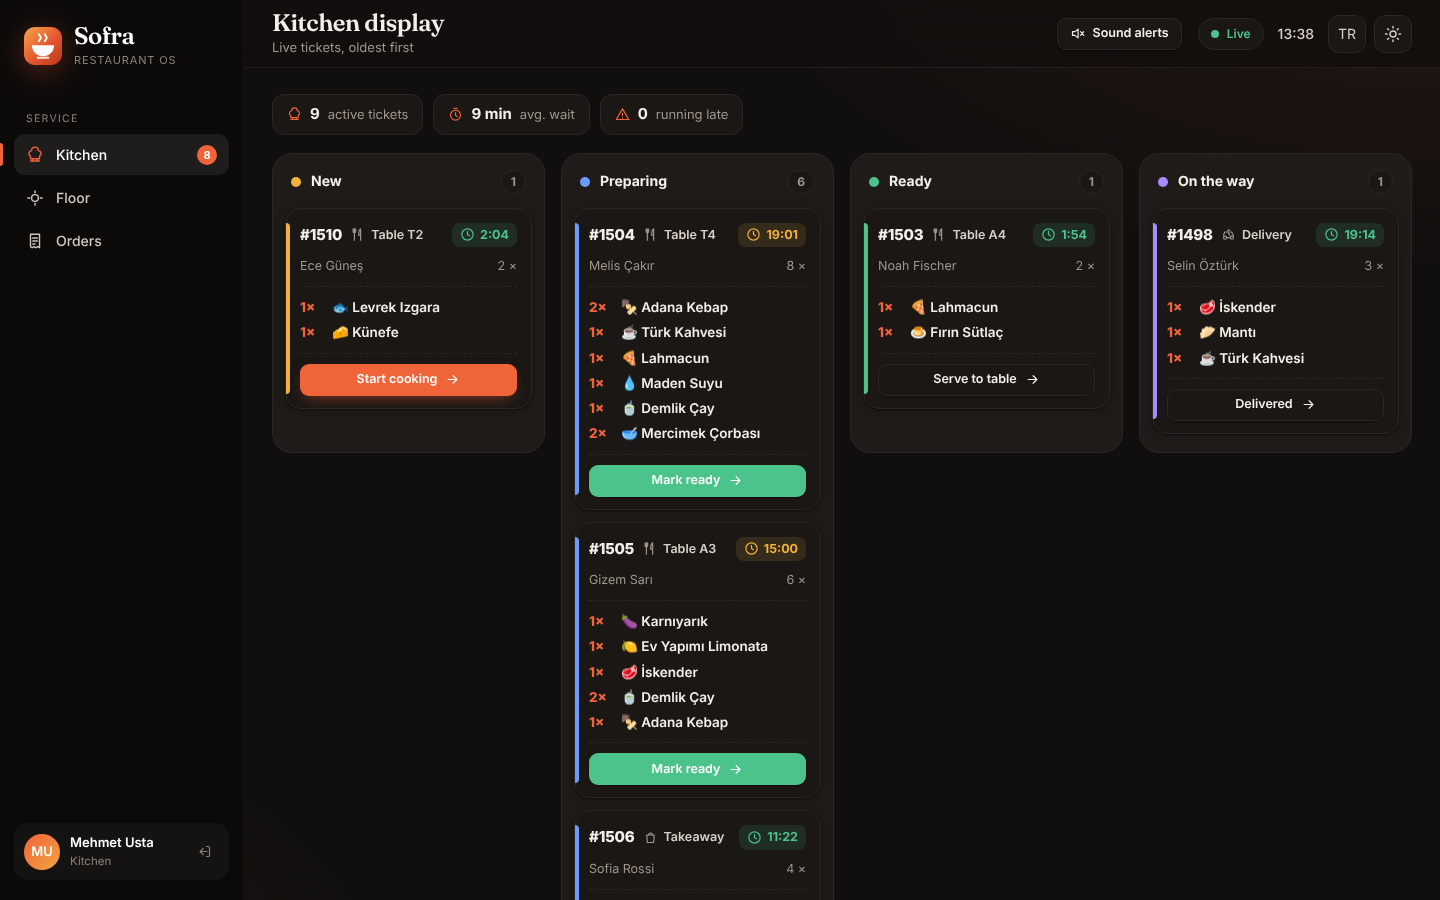
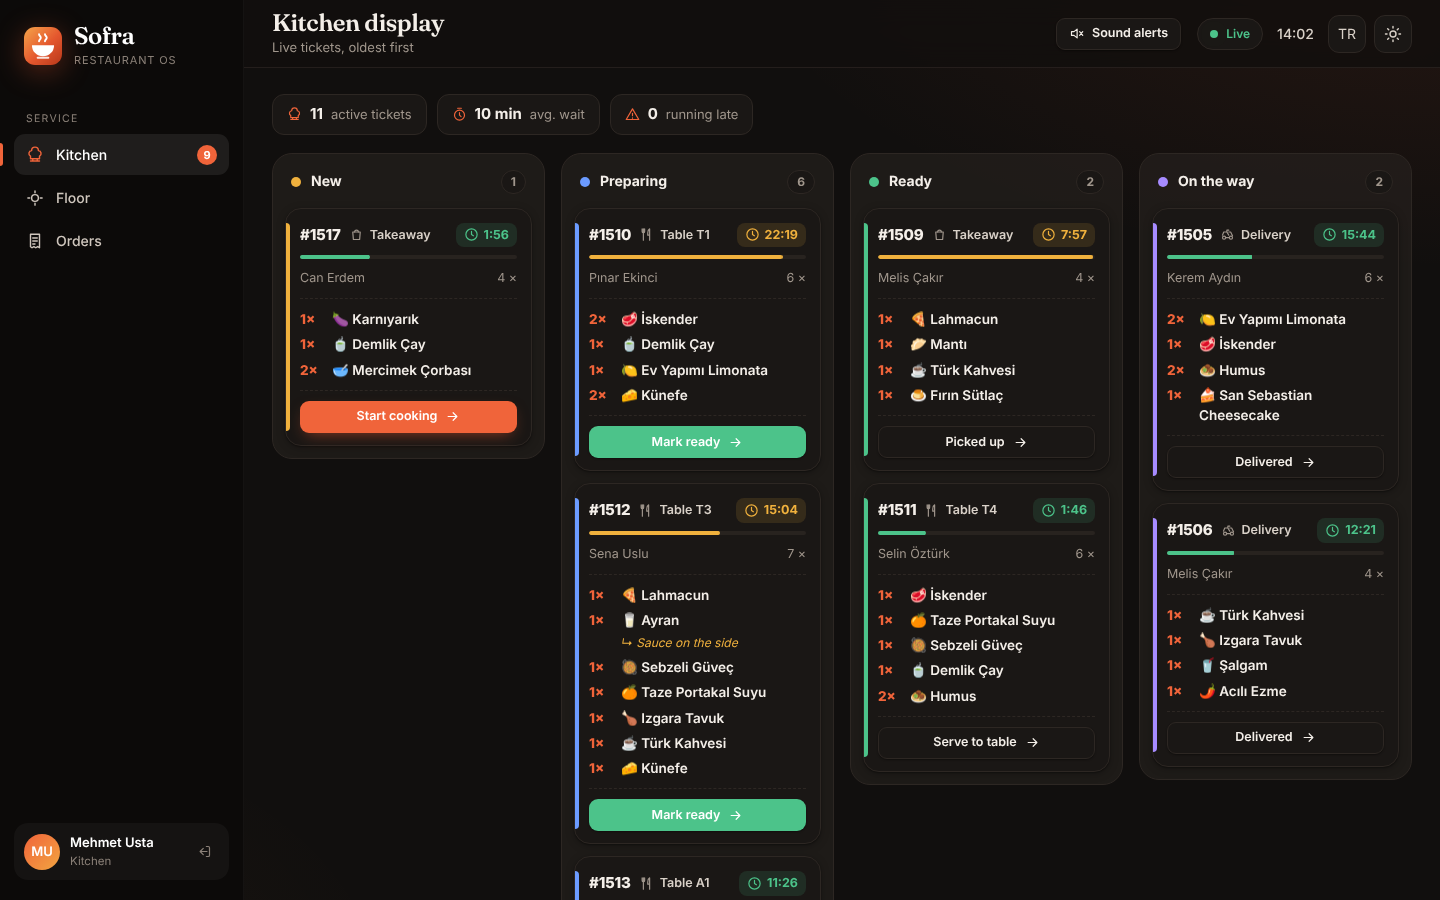
Add a time-budget bar to kitchen tickets and enlarge touch targets
- Each kitchen ticket shows a thin bar that fills in real time and turns
  amber, then red, at its column's SLA limits; late tickets get a light
  red tint so they stand out from across the kitchen
- Tablet-sized controls: table buttons 44px, quantity steppers 34px,
  filter chips 40px, segmented controls 42px

Claude-Session: https://claude.ai/code/session_01MiFbRTjEaz4vfDQx4DGCQ1

diff --git a/src/main/resources/static/assets/js/views/kitchen.js b/src/main/resources/static/assets/js/views/kitchen.js
@@ -80,6 +80,7 @@ export default {
           typeBadge(order),
           h('span', { class: 'timer', dataset: { since: order.status === 'READY' || order.status === 'OUT_FOR_DELIVERY' ? order.statusSince : order.createdAt, status: order.status } },
             icon('clock', 'sm'), h('span', null, ''))),
+        h('div', { class: 'sla', dataset: { since: order.status === 'READY' || order.status === 'OUT_FOR_DELIVERY' ? order.statusSince : order.createdAt, status: order.status } }, h('i')),
         h('div', { class: 'ticket-meta' }, h('span', null, order.customerName), h('span', null, `${order.itemCount} ×`)),
         order.note ? h('div', { class: 'sticky-note' }, icon('note', 'sm'), order.note) : null,
         h('div', { class: 'ticket-items' }, order.lines.map((line) => h('div', { class: 'ticket-item' },
@@ -97,6 +98,15 @@ export default {
         timer.classList.toggle('warn', minutes >= warn && minutes < late);
         timer.classList.toggle('late', minutes >= late);
         timer.lastChild.textContent = elapsed(timer.dataset.since, now);
+      });
+      // Each ticket's bar shows how much of its time budget is used: green, then amber, then red.
+      board.querySelectorAll('.sla').forEach((bar) => {
+        const minutes = minutesSince(bar.dataset.since, now);
+        const [warn, late] = SLA[bar.dataset.status] || [10, 20];
+        bar.style.setProperty('--p', Math.min(1, minutes / late));
+        bar.classList.toggle('warn', minutes >= warn && minutes < late);
+        bar.classList.toggle('late', minutes >= late);
+        bar.closest('.ticket').classList.toggle('is-late', minutes >= late);
       });
     }
 

diff --git a/src/main/resources/static/assets/css/app.css b/src/main/resources/static/assets/css/app.css
@@ -941,3 +941,17 @@ body { -webkit-tap-highlight-color: transparent; }
   .drawer-foot .btn { flex: 1 1 40%; min-width: 0; }
   .drawer-foot .btn.primary { flex-basis: 100%; order: -1; }
 }
+
+/* Kitchen: a time-budget bar on each ticket, so the most urgent slips stand out from across the kitchen. */
+.sla { height: 4px; border-radius: 99px; background: var(--surface-3); overflow: hidden; margin-top: -2px; }
+.sla i { display: block; height: 100%; width: 100%; border-radius: inherit; background: var(--green); transform-origin: left; transform: scaleX(var(--p, 0)); transition: transform 1s linear, background-color .3s var(--ease); }
+.sla.warn i { background: var(--amber); }
+.sla.late i { background: var(--red); }
+.ticket.is-late { border-color: color-mix(in srgb, var(--red) 45%, var(--border)); background: color-mix(in srgb, var(--red-soft) 40%, var(--surface)); }
+
+/* Tablet-sized touch targets: about 44px for the controls a waiter taps all shift. */
+.stepper button { width: 34px; height: 34px; }
+.table-picker button { height: 44px; }
+.chip { height: 40px; }
+.segmented button { height: 42px; }
+.pay-methods .segmented button { height: 40px; }

diff --git a/e2e/tests/service.spec.js b/e2e/tests/service.spec.js
@@ -28,6 +28,8 @@ test('a takeaway order travels from the till to the kitchen rail in real time', 
   await expect(ticket).toBeVisible();
   await expect(ticket).toHaveClass(/fresh/);
   await expect(ticket.locator('.ticket-item')).toHaveCount(2);
+  // The time-budget bar starts filling as soon as the ticket arrives.
+  await expect(ticket.locator('.sla')).toHaveAttribute('style', /--p/);
 
   await ticket.getByRole('button', { name: 'Start cooking' }).click();
   await expect(kitchen.locator('.kds-col[aria-label="Preparing"] .ticket', { hasText: guest })).toBeVisible();

diff --git a/src/main/resources/static/assets/js/views/pos.js b/src/main/resources/static/assets/js/views/pos.js
@@ -129,7 +129,7 @@ export default {
       }, t(`cat.${category}`), h('span', { class: 'count' }, category === 'ALL' ? (menu || []).length : counts[category]))));
       mount(tagChips, TAGS.map((tag) => h('button', {
         class: ['chip', filters.tags.has(tag) ? 'active' : ''],
-        style: { height: '30px', fontSize: '12px' },
+        style: { height: '36px', fontSize: '12px' },
         onclick: () => {
           if (filters.tags.has(tag)) filters.tags.delete(tag); else filters.tags.add(tag);
           renderFilters();

diff --git a/README.md b/README.md
@@ -39,7 +39,7 @@ the floor plan tracks every open check, and the manager watches it all on a live
 | Area | What it does |
 |---|---|
 | **Point of sale** | Menu grouped by category, with search and dietary filters. Dine-in, takeaway or delivery, a table picker with live occupancy, per-line kitchen notes and coupons. The server prices the ticket live, and <kbd>Ctrl</kbd>+<kbd>Enter</kbd> sends it. |
-| **Kitchen display** | Kanban board fed by **Server-Sent Events** with no polling or refresh. SLA timers turn amber, then red. One tap moves a ticket on, and new tickets are highlighted, with an optional chime. |
+| **Kitchen display** | Kanban board fed by **Server-Sent Events** with no polling or refresh. SLA timers turn amber, then red. One tap moves a ticket on, a time bar on each ticket shows how much of its time budget is used, and new tickets are highlighted, with an optional chime. |
 | **Floor plan** | Every table with its seats, open check, status and time seated. Tap a free table to start an order for it. |
 | **Orders** | Paginated history with full-text search (order #, guest, phone, table, address) and status, type and date filters kept in the URL. A detail drawer shows the audit timeline, cancellation with a reason and a printable receipt. |
 | **Dashboard** | Revenue, orders, average ticket and kitchen time against the previous period, with daily revenue, busiest hours, category mix, best sellers, channels and payment methods. |

diff --git a/DESIGN.md b/DESIGN.md
@@ -90,6 +90,9 @@ Status is always shown as a dot and a word, never as colour alone.
 - Easing is `cubic-bezier(.2, .8, .2, 1)` throughout.
 - Buttons and chips press to `scale(.97)`.
 - Only a newly arrived kitchen ticket slides in, and only once; a re-render never replays the animation.
+- Each kitchen ticket carries a thin time-budget bar that fills in real time and turns from green to amber
+  to red at the column's SLA limits. A late ticket also gets a light red tint, so urgent slips stand out at a
+  glance from across the kitchen.
 - Toasts and dialogs slide in, and fade out when closed. At most three toasts are shown, and hovering one
   pauses its timer.
 - Transitions list their properties explicitly; `transition: all` is never used.
@@ -106,6 +109,8 @@ Status is always shown as a dot and a word, never as colour alone.
   Initials split by grapheme (`Intl.Segmenter`).
 - The orders filters are kept in the URL (`#/orders?status=active&q=ayşe`).
 - Inputs are 16px on touch screens so iOS does not zoom. Controls use `touch-action: manipulation`.
+- Controls a waiter taps all shift are tablet-sized (about 44px, Fitts's law): table buttons 44px, quantity
+  steppers 34px, filter chips 40px.
 
 ## Content rules
 
